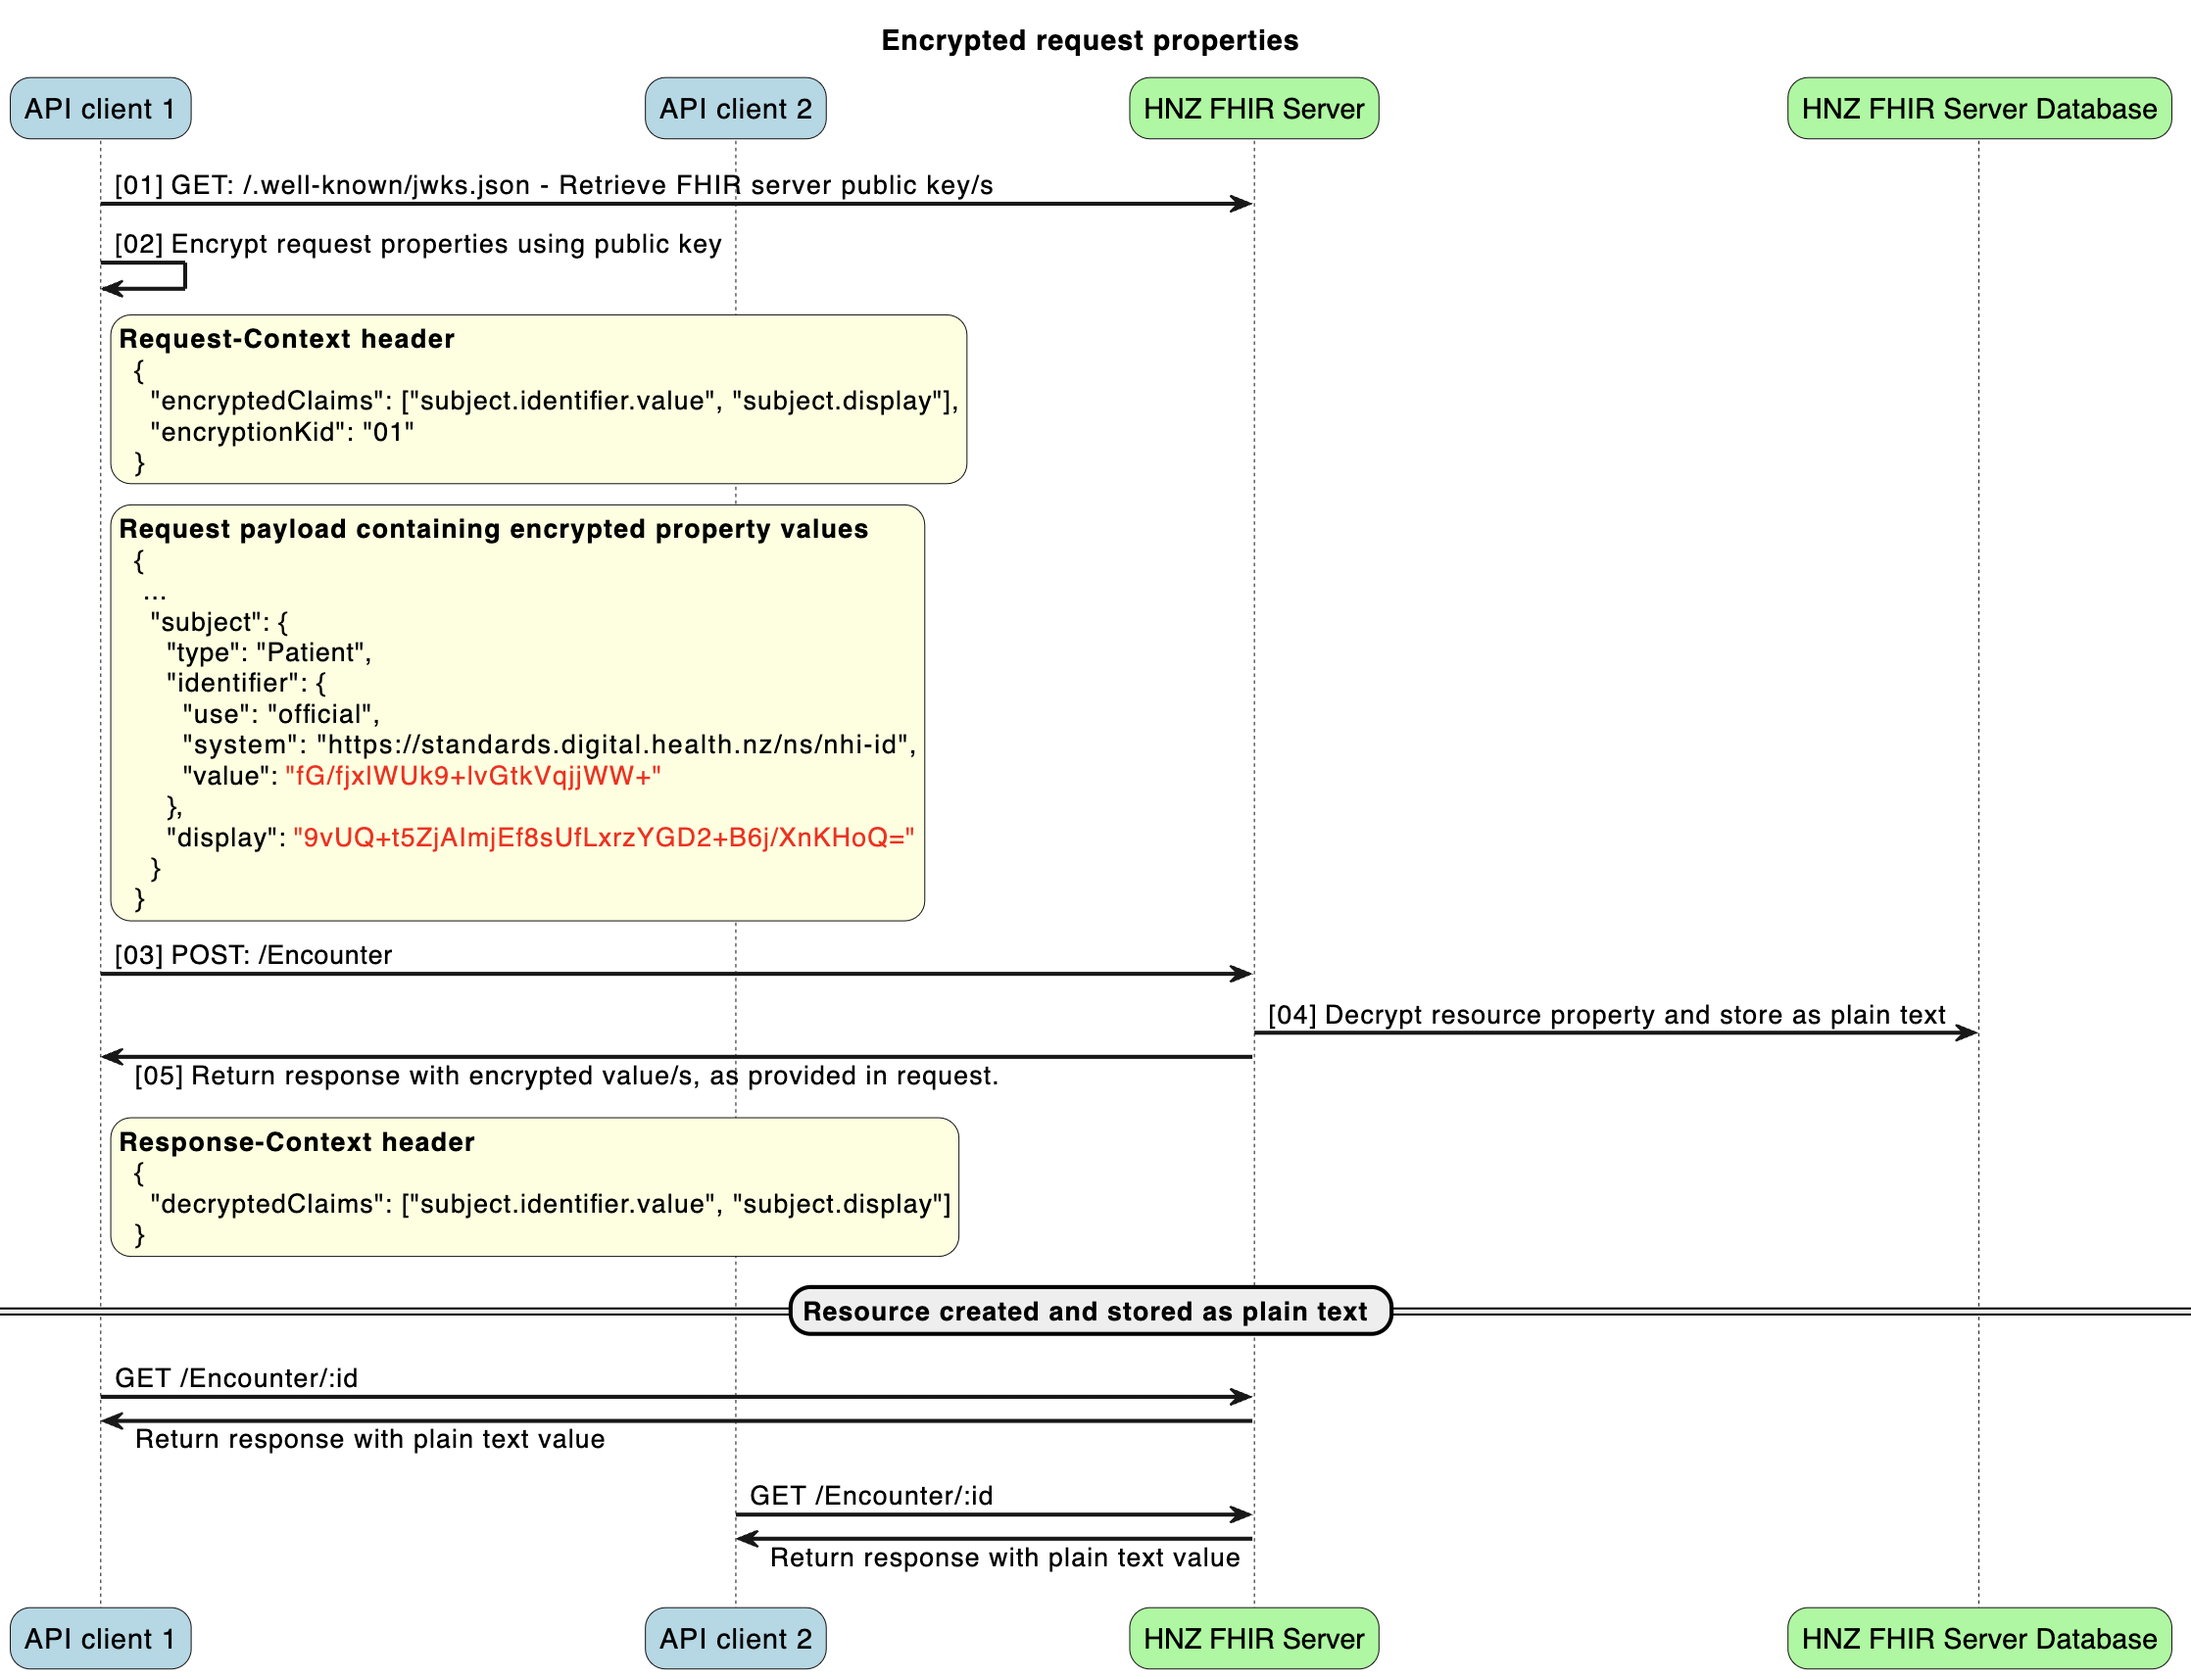
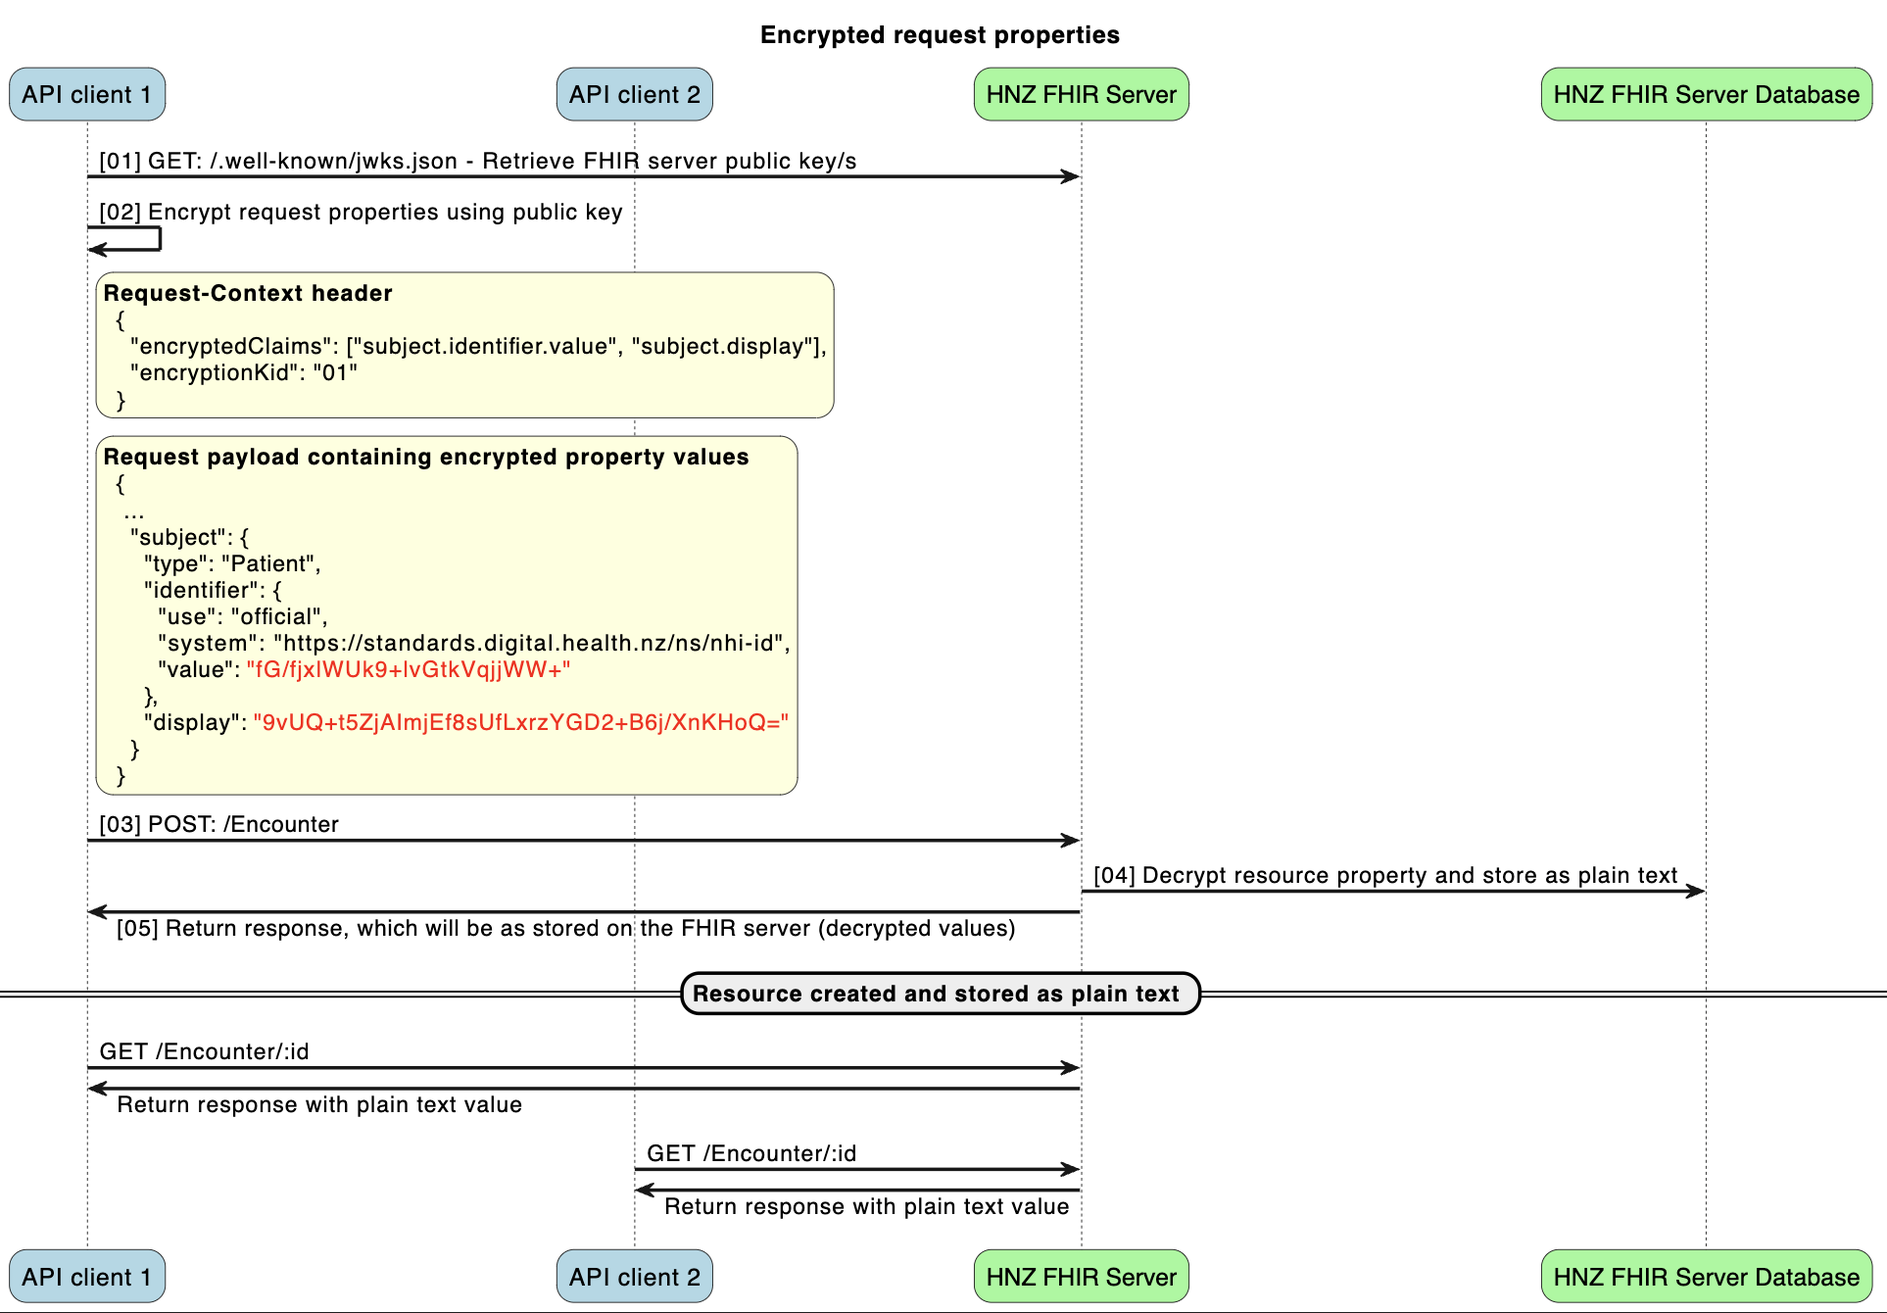
Updates

diff --git a/input/pagecontent/developerGuide.md b/input/pagecontent/developerGuide.md
@@ -19,7 +19,8 @@ In order to make requests against this API clients must:
     "system": "https://standards.digital.health.nz/ns/hpi-person-id",
     "value": "99ZZFX"
   },
-  "encryptedClaims": []
+  "encryptedClaims": [],
+  "encryptedKid": "01"
 }
 ```
 
@@ -39,7 +40,7 @@ The currently supported fields for this feature are:
 - "subject.identifier.value"
 - "subject.display"
 
-When this feature is used, applicable request and response properties can be provided to the server as an encrypted value, but **the value is stored within the FHIR server unencrypted**. When the FHIR resource is subsequently read, the plain text value will be returned.
+When this feature is used, applicable request properties can be provided to the server as an encrypted value, where **the value is stored within the FHIR server unencrypted**. When the FHIR resource is subsequently read, the plain text value will be returned.
 
 To use this feature, the request must include the below attributes:
 
@@ -47,6 +48,43 @@ To use this feature, the request must include the below attributes:
 - the `Request-Context` header MUST contain an `encryptionKid` string to indicate which public key has been used for encryption, which should be the `kid` of the key used.
 - the fields indicated in the `encryptedClaims` array MUST be encrypted using a valid public key as provided by the FHIR server JWKS endpoint, with base64 encoding. If the value cannot be decrypted successfully, due to a client encryption error or invalid public key, an error will be returned.
 
-When the FHIR server successfully decrypts and stores or updates a resource, the `Response-Context` header will be added, which contains a base64 encoded JSON payload which contains a `decryptedClaims` array, to provide the client a way to confirm the field was successfully decrypted and stored as plain text.
+### Field encryption code sample in Node.js
 
-![](request-encryption.png)
+```js
+// Node.js 18+
+
+const crypto = require("crypto");
+const jose = require("node-jose"); // v2.2.0
+
+const FHIR_SERVER_BASE_URL = "https://fhir.example.com"; // replace with real FHIR server url
+
+const getPublicKey = async () => {
+  return fetch(`${FHIR_SERVER_BASE_URL}/.well-known/jwks.json`)
+    .then((response) => response.json())
+    .then(async (body) => {
+      const key = await jose.JWK.asKey(body.keys[0]);
+      return key.toPEM();
+    });
+};
+
+const encryptText = async (plainText) => {
+  const encrypted = crypto.publicEncrypt(
+    {
+      key: await getPublicKey(),
+      padding: crypto.constants.RSA_PKCS1_OAEP_PADDING,
+      oaepHash: "sha256",
+    },
+    Buffer.from(plainText)
+  );
+  return Buffer.from(encrypted).toString("base64");
+};
+
+(async function () {
+  const stringToEncrypt = "Carey Carrington";
+  console.log(`Encrypting string: ${stringToEncrypt}`);
+  const encrypted = await encryptText(stringToEncrypt);
+  console.log(`Encrypted value as Base64: ${encrypted}`);
+})();
+```
+
+<img src="request-encryption.png" width="800">
